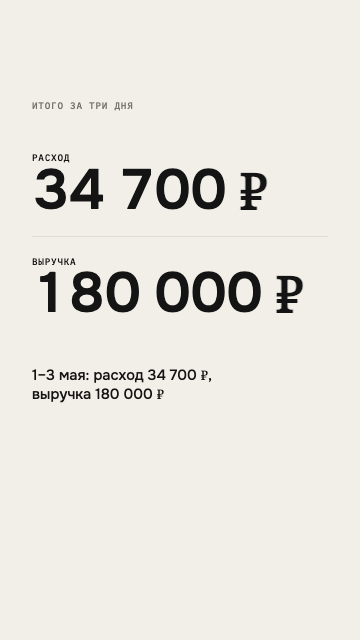
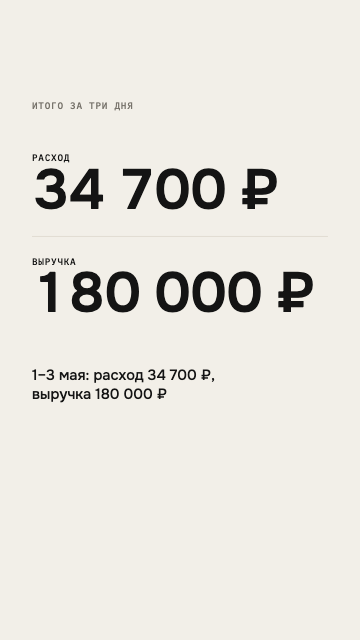
reels: знак ₽ из самого шрифта в примере стиля
Собрано из claude-code-kit-src e16d2ed.

diff --git a/reels/design.md b/reels/design.md
@@ -15,6 +15,8 @@
 - Onest из Google Fonts, с кириллицей: заголовки, числа, субтитры. Цифры табличные, `font-variant-numeric:
   tabular-nums`, чтобы числа не прыгали, пока набегают.
 - IBM Plex Mono: мелкие подписи сцен, заглавными, разрядка 0,08 em.
+- Знак ₽ у обоих шрифтов лежит в подмножестве latin-ext: загрузите его вместе с latin и cyrillic, иначе рубль
+  нарисуется запасным шрифтом с засечками.
 - Размеры на кадре 1080×1920: подпись 28 px, субтитр 44 px, название в строке графика 44 px, заголовок 112 px,
   крупное число 168–240 px.
 
